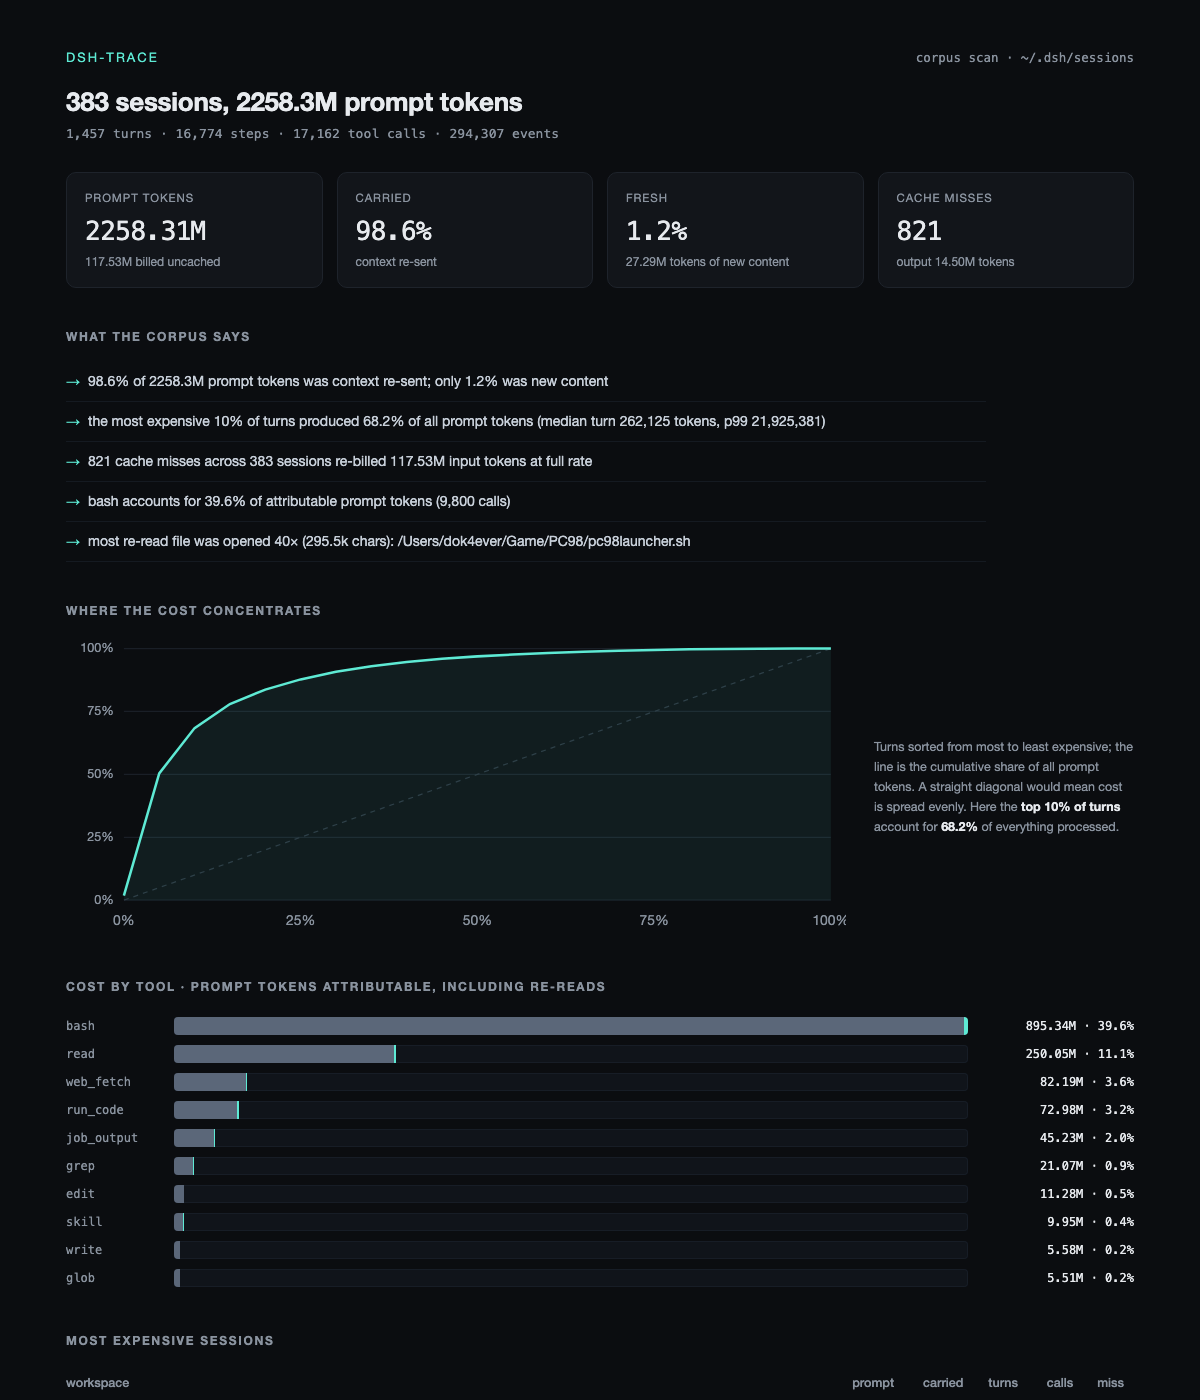
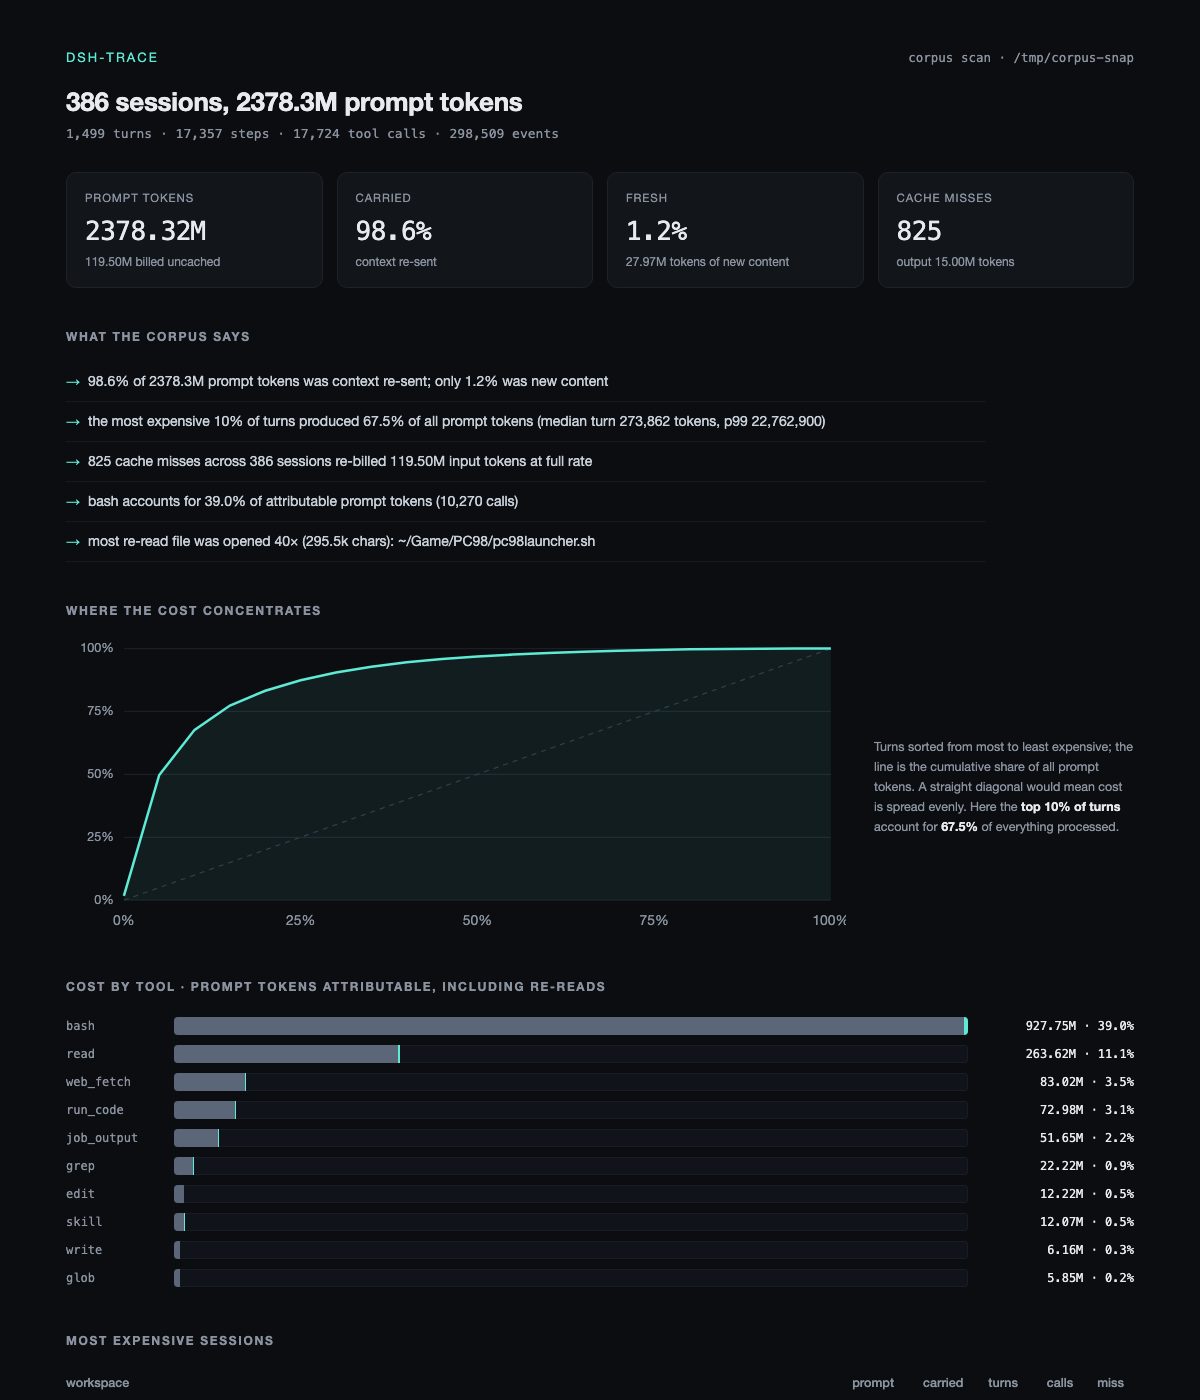
docs: freeze the corpus snapshot behind the numbers
The screenshots and the prose both quote the corpus, and a live corpus grows
while you work — the committed image had already drifted from the text.

- scan the frozen copy at /tmp/corpus-snap, screenshot that output
- README and article now cite the same snapshot: 386 sessions, 1,499 turns,
  2.38B prompt tokens, 98.6% carried, top 10% of turns = 67.5%, bash 39.0%,
  825 cache misses, calibration p50 0.43 / p10-p90 0.32-0.59
- redact home paths inside scan findings too (one finding line still leaked a
  full /Users path into the screenshot)

diff --git a/src/report/html.ts b/src/report/html.ts
@@ -266,7 +266,7 @@ export function renderScanHtml(result: ScanResult, options: ScanHtmlOptions = {}
   const freshShare = totals.prompt === 0 ? 0 : totals.fresh / totals.prompt
 
   const findings = result.findings
-    .map((finding) => `<li>${escapeHtml(finding)}</li>`)
+    .map((finding) => `<li>${escapeHtml(redact(finding))}</li>`)
     .join('')
 
   const sessionRows = result.sessions

diff --git a/README.md b/README.md
@@ -17,15 +17,19 @@ A DSH session is a zstd-compressed, append-only event log — thousands of event
 
 ## What it found
 
-Across 383 local sessions (1,457 turns, 2.26B prompt tokens processed — corpus as of 2026-11-11, and still growing):
+Across 386 local sessions (1,499 turns, 2.38B prompt tokens processed — corpus snapshot, 2026-11-12):
 
 ![dsh-trace corpus scan](docs/scan.png)
 
 - **98.6% of everything the models processed was context they had already seen**; 1.2% was new content.
-- The most expensive **10% of turns produced 68.2%** of all prompt tokens — median turn 260k tokens, p99 21.9M, max 40.1M.
-- 821 cache misses re-billed 118M input tokens at full rate.
-- `bash` output accounts for 39.6% of attributable prompt tokens.
+- The most expensive **10% of turns produced 67.5%** of all prompt tokens — median turn 274k tokens, p99 22.8M, max 40.1M.
+- 825 cache misses re-billed 119.5M input tokens at full rate.
+- `bash` output accounts for 39.0% of attributable prompt tokens.
 - The most re-read file was opened 40 times (295k characters).
+
+The scan above was run against a frozen copy of the corpus so the committed
+screenshot and the numbers in this README agree. Re-running on a live corpus
+gives slightly larger totals — which is itself the point.
 
 ## Install
 
